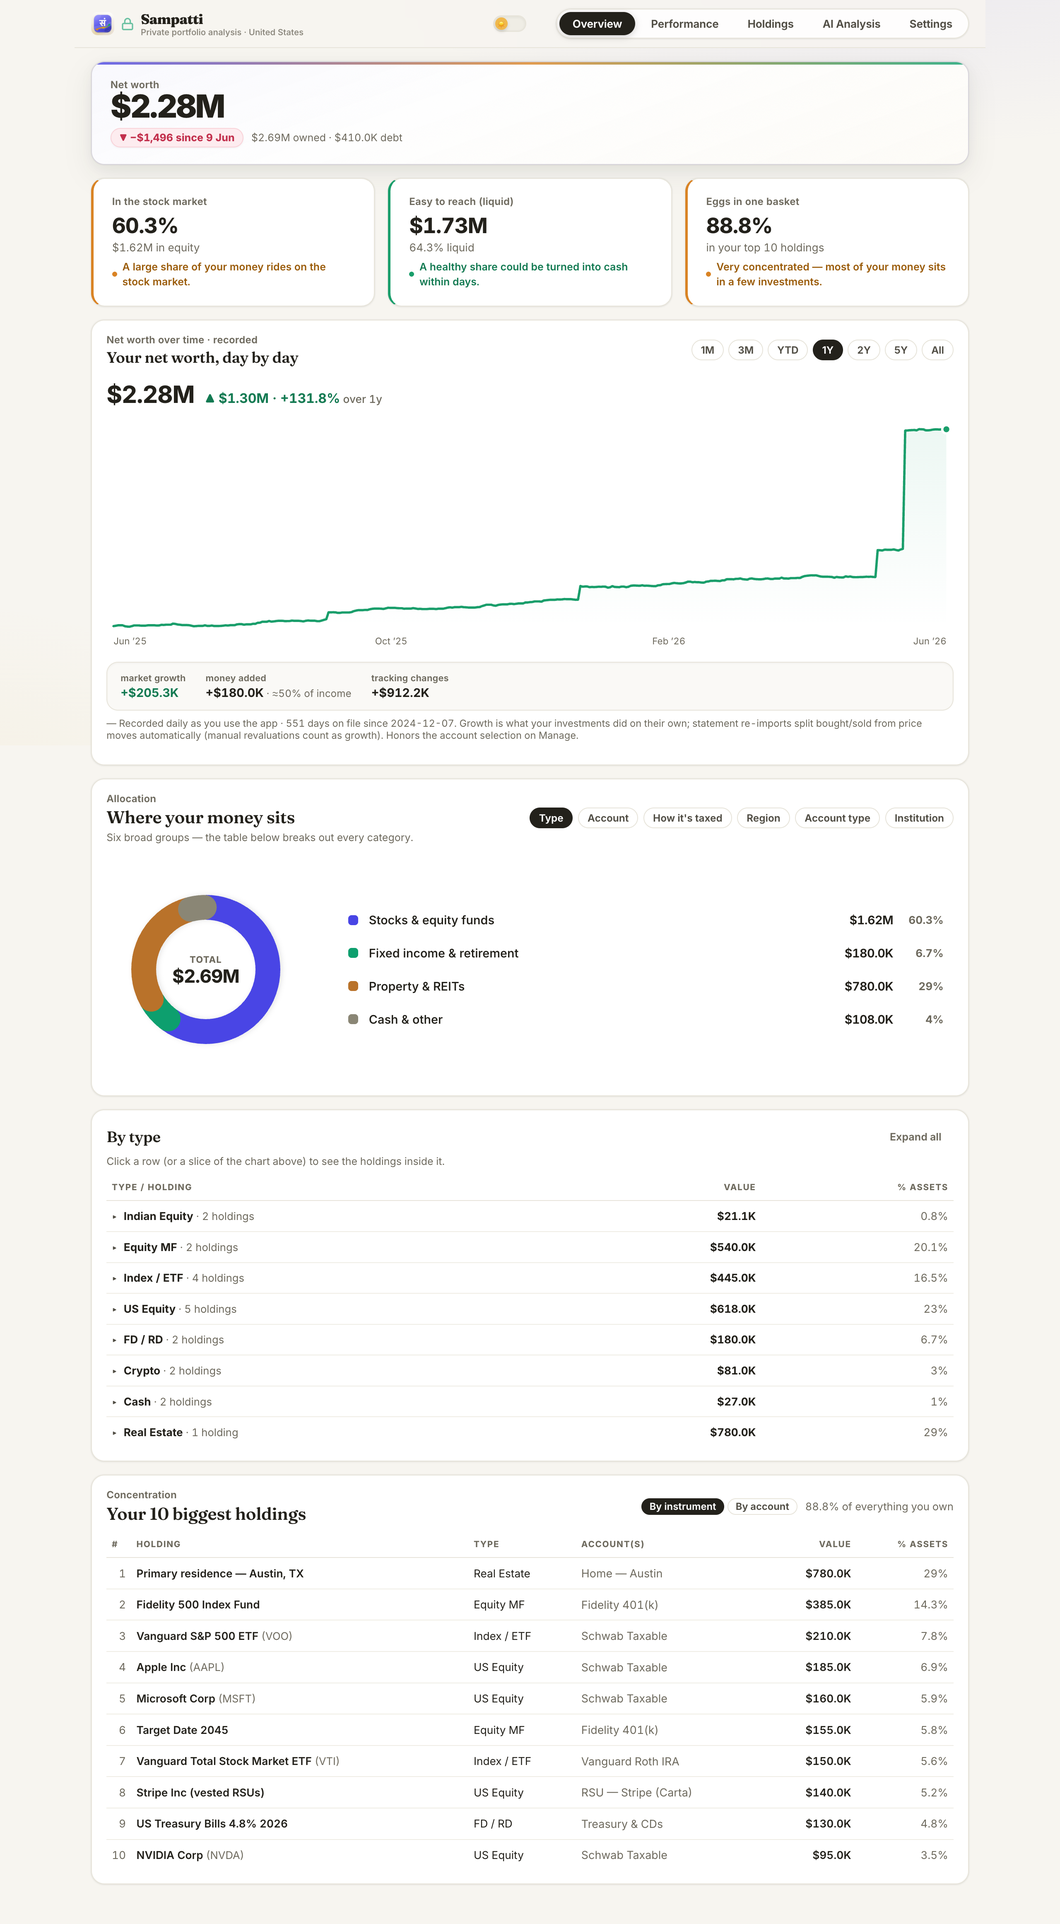
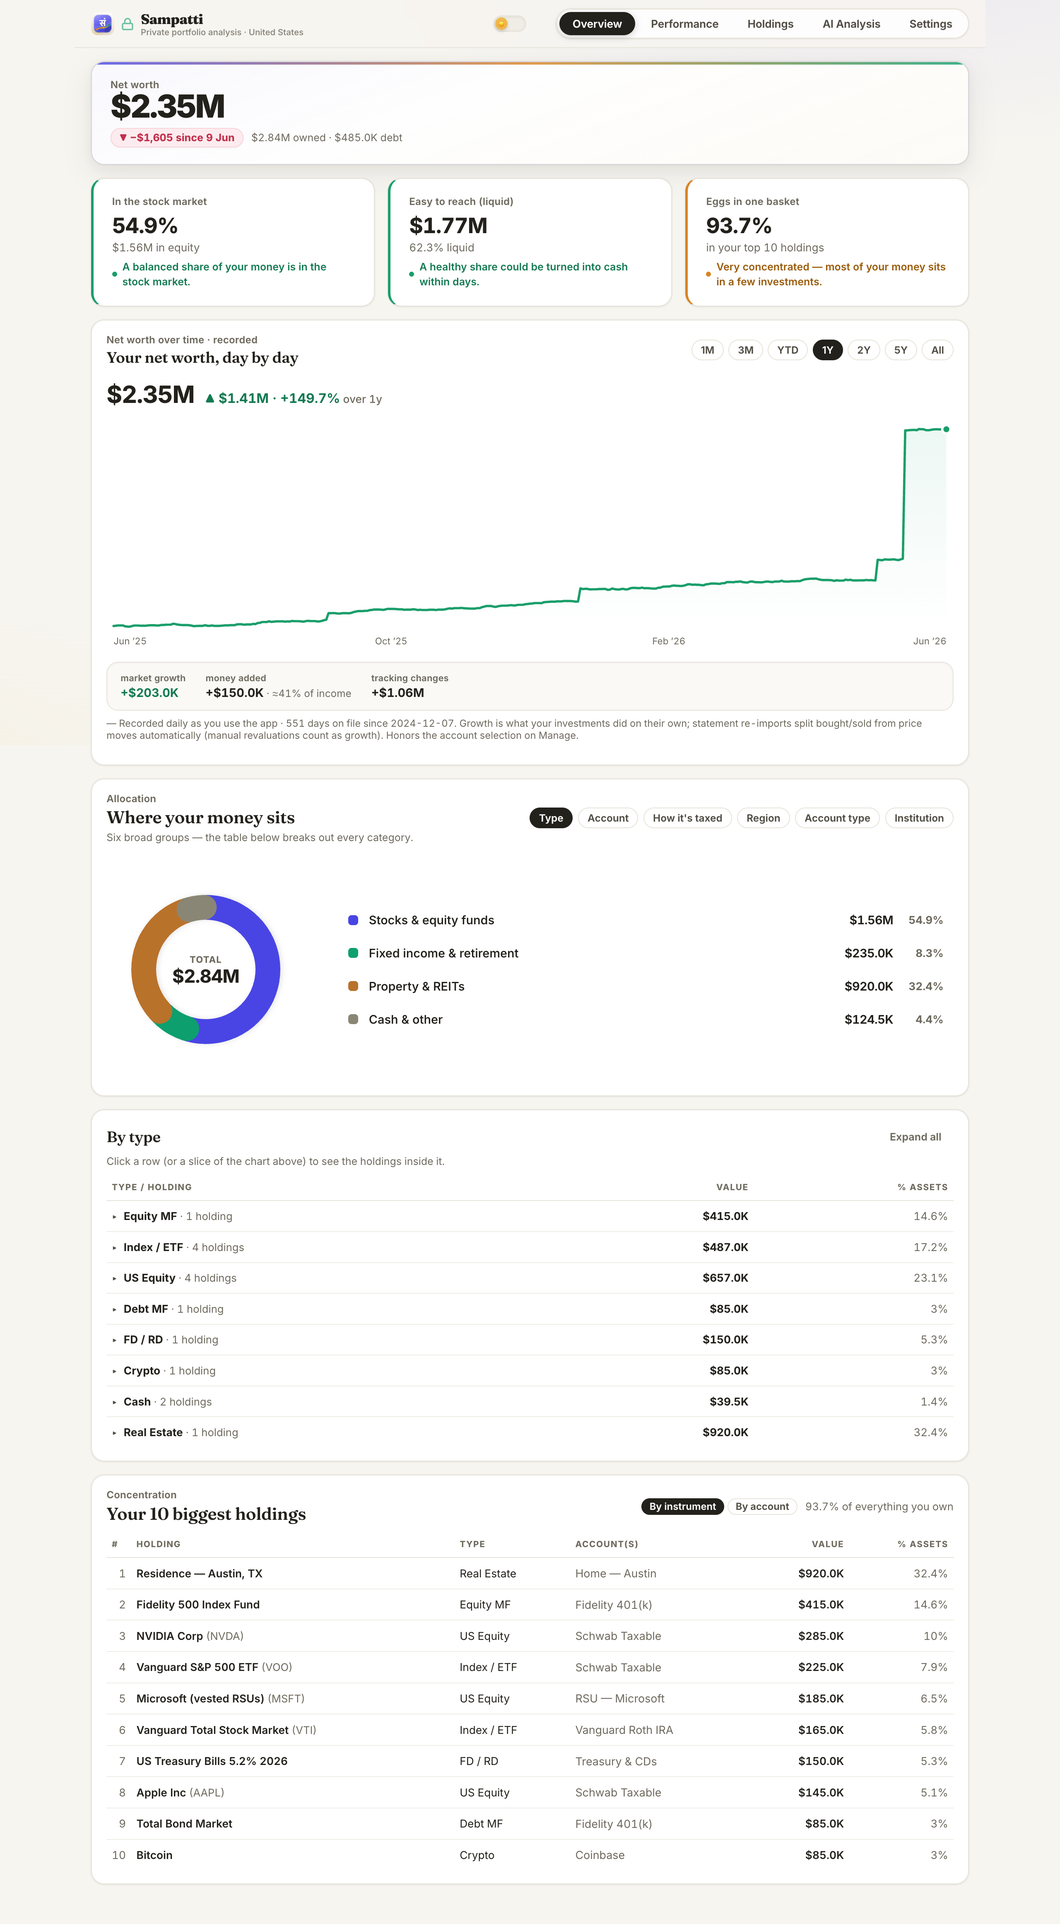
chore: revamp demo portfolios with premium India and US personas

diff --git a/src/demo.ts b/src/demo.ts
@@ -183,90 +183,66 @@ function usSpecs(): AcctSpec[] {
       name: "Schwab Taxable", institution: "Charles Schwab", accountType: "demat",
       taxTreatment: "taxable", region: "US", currency: "USD", asOf: "2026-05-31",
       items: [
-        ["Apple Inc", "us_equity", 185_000, { symbol: "AAPL", units: 720, costBasis: 96_000, buyDate: "2020-03-20" }],
-        ["Microsoft Corp", "us_equity", 160_000, { symbol: "MSFT", units: 320, costBasis: 105_000, buyDate: "2021-05-10" }],
-        ["Vanguard S&P 500 ETF", "index_etf", 210_000, { symbol: "VOO", units: 360, costBasis: 150_000, buyDate: "2019-08-05" }],
-        ["NVIDIA Corp", "us_equity", 95_000, { symbol: "NVDA", units: 540, costBasis: 28_000, buyDate: "2022-10-12" }],
-        // Recent buy → short-term, and a loser — the Performance tab shows red too.
-        ["Tesla Inc", "us_equity", 38_000, { symbol: "TSLA", units: 110, costBasis: 45_000, buyDate: "2026-03-02" }],
-        ["Money market sweep", "cash", 22_000, { symbol: "SWVXX" }],
+        ["NVIDIA Corp", "us_equity", 285_000, { symbol: "NVDA", units: 240, costBasis: 45_000, buyDate: "2021-03-20" }],
+        ["Apple Inc", "us_equity", 145_000, { symbol: "AAPL", units: 710, costBasis: 96_000, buyDate: "2020-05-10" }],
+        ["Vanguard S&P 500 ETF", "index_etf", 225_000, { symbol: "VOO", units: 385, costBasis: 160_000, buyDate: "2019-08-05" }],
+        // A realistic loser/pullback.
+        ["Tesla Inc", "us_equity", 42_000, { symbol: "TSLA", units: 120, costBasis: 55_000, buyDate: "2023-11-12" }],
+        ["Money market sweep", "cash", 35_000, { symbol: "SWVXX" }],
       ],
     },
     {
       name: "Fidelity 401(k)", institution: "Fidelity", accountType: "mutual_fund",
       taxTreatment: "us_pretax", region: "US", currency: "USD", asOf: "2026-05-31",
       items: [
-        ["Fidelity 500 Index Fund", "equity_mf", 385_000, { symbol: "FXAIX", costBasis: 235_000, buyDate: "2018-06-01" }],
-        ["Target Date 2045", "equity_mf", 155_000, { costBasis: 120_000, buyDate: "2020-01-15" }],
+        ["Fidelity 500 Index Fund", "equity_mf", 415_000, { symbol: "FXAIX", costBasis: 245_000, buyDate: "2018-06-01" }],
+        ["Total Bond Market", "debt_mf", 85_000, { symbol: "FXNAX", costBasis: 82_000, buyDate: "2022-01-15" }],
       ],
     },
     {
       name: "Vanguard Roth IRA", institution: "Vanguard", accountType: "mutual_fund",
       taxTreatment: "us_roth", region: "US", currency: "USD", asOf: "2026-05-31",
       items: [
-        ["Vanguard Total Stock Market ETF", "index_etf", 150_000, { symbol: "VTI", units: 480, costBasis: 92_000, buyDate: "2019-04-01" }],
-        ["Vanguard Total International ETF", "index_etf", 45_000, { symbol: "VXUS", units: 640, costBasis: 41_000, buyDate: "2022-07-01" }],
+        ["Vanguard Total Stock Market", "index_etf", 165_000, { symbol: "VTI", units: 520, costBasis: 98_000, buyDate: "2019-04-01" }],
+        ["Vanguard International", "index_etf", 55_000, { symbol: "VXUS", units: 780, costBasis: 48_000, buyDate: "2022-07-01" }],
       ],
     },
     {
-      name: "HSA Bank", institution: "HSA Bank / Schwab", accountType: "bank",
+      name: "HSA Bank", institution: "HSA Bank", accountType: "bank",
       taxTreatment: "us_hsa", region: "US", currency: "USD", asOf: "2026-05-31",
       items: [
-        ["HSA index sweep (S&P 500)", "index_etf", 40_000, { costBasis: 29_000, buyDate: "2021-02-01" }],
-        ["HSA cash", "cash", 5_000],
+        ["HSA Index Fund", "index_etf", 42_000, { costBasis: 31_000, buyDate: "2021-02-01" }],
+        ["HSA cash", "cash", 4_500],
       ],
     },
     {
-      // Joined the record a month ago with NEW money — a `flow` step in the trend.
-      name: "Treasury & CDs", institution: "TreasuryDirect / Marcus", accountType: "bank",
+      name: "Treasury & CDs", institution: "TreasuryDirect", accountType: "bank",
       taxTreatment: "taxable", region: "US", currency: "USD", asOf: dayStr(0),
       items: [
-        ["US Treasury Bills 4.8% 2026", "fd_rd", 130_000, { costBasis: 128_000, buyDate: dayStr(30) }],
-        ["Marcus CD 5.0% 2026", "fd_rd", 50_000, { costBasis: 50_000, buyDate: dayStr(30) }],
+        ["US Treasury Bills 5.2% 2026", "fd_rd", 150_000, { costBasis: 148_500, buyDate: dayStr(30) }],
       ],
     },
     {
       name: "Coinbase", institution: "Coinbase", accountType: "other",
       taxTreatment: "taxable", region: "Other", currency: "USD", asOf: "2026-05-31",
       items: [
-        ["Bitcoin", "crypto", 62_000, { symbol: "BTC", units: 0.95, costBasis: 21_000, buyDate: "2020-11-15" }],
-        ["Ethereum", "crypto", 19_000, { symbol: "ETH", units: 6.2, costBasis: 16_000, buyDate: "2024-02-01" }],
+        ["Bitcoin", "crypto", 85_000, { symbol: "BTC", units: 1.25, costBasis: 32_000, buyDate: "2020-11-15" }],
       ],
     },
     {
-      // Private-company RSUs: a value with NO basis — the ≈ since-import fallback on a
-      // big holding, plus the "your employer is your biggest risk" conversation.
-      name: "RSU — Stripe (Carta)", institution: "Carta", accountType: "other",
+      name: "RSU — Microsoft", institution: "Fidelity", accountType: "other",
       taxTreatment: "taxable", region: "US", currency: "USD", asOf: "2026-03-31",
-      defaultAssetClass: "us_equity", note: "Vested private RSUs at last 409A — no cost basis reported",
-      items: [["Stripe Inc (vested RSUs)", "us_equity", 140_000]],
-    },
-    {
-      // Pre-excluded: the Manage-tab include/exclude feature, US flavor.
-      name: "Old Employer 401(k) — Empower", institution: "Empower", accountType: "mutual_fund",
-      taxTreatment: "us_pretax", region: "US", currency: "USD", asOf: "2026-04-30",
-      excluded: true, note: "Pending rollover — tracked, excluded from net worth",
-      items: [["Target Date 2045", "equity_mf", 95_000, { costBasis: 70_000, buyDate: "2016-09-01" }]],
-    },
-    {
-      // The NRI case: an Indian demat alongside the US accounts — mixed currencies.
-      name: "Zerodha (NRI demat)", institution: "Zerodha", accountType: "demat",
-      taxTreatment: "taxable", region: "India", currency: "INR", asOf: "2026-05-31",
-      items: [
-        ["Reliance Industries", "indian_equity", 1_400_000, { symbol: "RELIANCE", units: 1110, costBasis: 900_000, buyDate: "2019-07-12" }],
-        ["ITC", "indian_equity", 600_000, { symbol: "ITC", units: 2150, costBasis: 450_000, buyDate: "2020-12-01" }],
-      ],
+      items: [["Microsoft (vested RSUs)", "us_equity", 185_000, { symbol: "MSFT" }]],
     },
     {
       name: "Home — Austin", institution: "—", accountType: "real_estate",
       taxTreatment: "taxable", region: "US", currency: "USD", asOf: dayStr(DEMO_PLOT_DAYS_AGO),
-      defaultAssetClass: "real_estate", note: "Zillow-style indicative value — update yearly",
-      items: [["Primary residence — Austin, TX", "real_estate", 780_000]],
+      items: [["Residence — Austin, TX", "real_estate", 920_000]],
     },
     {
       name: "Mortgage", institution: "Rocket Mortgage", accountType: "liability",
       taxTreatment: "na", region: "US", currency: "USD", asOf: "2026-05-31",
-      items: [["30-yr fixed (outstanding)", "other", 410_000]],
+      items: [["30-yr fixed (outstanding)", "other", 485_000]],
     },
   ];
 }
@@ -288,133 +264,93 @@ export function demoPortfolio(country: "India" | "US" = "India"): Portfolio {
       name: "Zerodha Demat", institution: "Zerodha", accountType: "demat",
       taxTreatment: "taxable", region: "India", currency: "INR", asOf: "2026-05-31",
       items: [
-        ["Reliance Industries", "indian_equity", 3_500_000, { symbol: "RELIANCE", units: 2770, costBasis: 2_100_000, buyDate: "2019-07-12" }],
-        ["HDFC Bank", "indian_equity", 2_800_000, { symbol: "HDFCBANK", units: 3790, costBasis: 1_700_000, buyDate: "2020-03-20" }],
-        ["Infosys", "indian_equity", 2_200_000, { symbol: "INFY", units: 1850, costBasis: 900_000, buyDate: "2018-11-05" }],
-        ["TCS", "indian_equity", 1_800_000, { symbol: "TCS", units: 835, costBasis: 1_200_000, buyDate: "2021-01-18" }],
-        ["ICICI Bank", "indian_equity", 1_600_000, { symbol: "ICICIBANK", units: 1280, costBasis: 750_000, buyDate: "2020-09-10" }],
-        ["Bajaj Finance", "indian_equity", 1_500_000, { symbol: "BAJFINANCE", units: 1720, costBasis: 1_100_000, buyDate: "2022-06-01" }],
-        ["Embassy Office Parks REIT", "reit_invit", 1_400_000, { symbol: "EMBASSY", units: 3290, costBasis: 1_100_000, buyDate: "2021-10-05" }],
-        ["Larsen & Toubro", "indian_equity", 1_200_000, { symbol: "LT", units: 310, costBasis: 650_000, buyDate: "2021-08-22" }],
-        // A realistic loser: bought near the top.
-        ["Asian Paints", "indian_equity", 1_000_000, { symbol: "ASIANPAINT", units: 376, costBasis: 1_150_000, buyDate: "2023-01-09" }],
-        ["Titan Company", "indian_equity", 900_000, { symbol: "TITAN", units: 215, costBasis: 400_000, buyDate: "2020-05-15" }],
-        // Recent buy → STCG territory, small loss so the Performance tab shows red too.
-        ["Trent", "indian_equity", 600_000, { symbol: "TRENT", units: 220, costBasis: 660_000, buyDate: "2025-11-20" }],
+        ["Trent Ltd", "indian_equity", 4_500_000, { symbol: "TRENT", units: 820, costBasis: 1_200_000, buyDate: "2022-03-15" }],
+        ["Kaynes Technology", "indian_equity", 3_200_000, { symbol: "KAYNES", units: 740, costBasis: 950_000, buyDate: "2023-01-10" }],
+        ["Varun Beverages", "indian_equity", 2_800_000, { symbol: "VBL", units: 1850, costBasis: 800_000, buyDate: "2021-11-05" }],
+        ["HDFC Bank", "indian_equity", 2_200_000, { symbol: "HDFCBANK", units: 1380, costBasis: 1_400_000, buyDate: "2020-03-20" }],
+        ["Reliance Industries", "indian_equity", 1_800_000, { symbol: "RELIANCE", units: 635, costBasis: 1_200_000, buyDate: "2021-01-18" }],
+        ["Embassy Office Parks REIT", "reit_invit", 1_600_000, { symbol: "EMBASSY", units: 3720, costBasis: 1_200_000, buyDate: "2021-10-05" }],
+        ["Jio Financial Services", "indian_equity", 1_400_000, { symbol: "JIOFIN", units: 3820, costBasis: 650_000, buyDate: "2023-08-22" }],
+        // A realistic loser: high-quality name bought at a peak.
+        ["Asian Paints", "indian_equity", 1_100_000, { symbol: "ASIANPAINT", units: 376, costBasis: 1_350_000, buyDate: "2023-01-09" }],
+        ["Zomato Ltd", "indian_equity", 950_000, { symbol: "ZOMATO", units: 5200, costBasis: 400_000, buyDate: "2022-05-15" }],
       ],
     },
     {
       name: "Equity Mutual Funds", institution: "CAMS / KFintech", accountType: "mutual_fund",
       taxTreatment: "taxable", region: "India", currency: "INR", asOf: "2026-05-31",
-      // symbol = AMFI scheme code → mfapi.in NAV history powers the trend chart.
       items: [
-        ["Parag Parikh Flexi Cap Fund", "equity_mf", 5_500_000, { symbol: "122639", costBasis: 3_000_000, buyDate: "2019-04-01" }],
-        ["Mirae Asset Large Cap Fund", "equity_mf", 4_500_000, { symbol: "118825", costBasis: 2_400_000, buyDate: "2018-02-10" }],
-        ["Axis Midcap Fund", "equity_mf", 3_000_000, { symbol: "120505", costBasis: 1_900_000, buyDate: "2021-03-15" }],
-        // Re-entered recently → short-term; goes long-term in a month.
-        ["SBI Small Cap Fund", "equity_mf", 2_500_000, { symbol: "125497", costBasis: 2_350_000, buyDate: "2025-07-01" }],
-        ["HDFC Index Fund — Nifty 50", "index_etf", 3_500_000, { symbol: "119063", costBasis: 2_200_000, buyDate: "2020-01-08" }],
-        ["UTI Nifty Next 50 Index Fund", "index_etf", 1_500_000, { symbol: "143341", costBasis: 1_050_000, buyDate: "2021-11-11" }],
-        ["Axis Long Term Equity (ELSS)", "elss", 1_800_000, { symbol: "120503", costBasis: 1_100_000, buyDate: "2020-02-20" }],
+        ["Quant Small Cap Fund", "equity_mf", 6_500_000, { symbol: "120847", costBasis: 2_800_000, buyDate: "2020-04-01" }],
+        ["Parag Parikh Flexi Cap Fund", "equity_mf", 5_800_000, { symbol: "122639", costBasis: 3_200_000, buyDate: "2019-02-10" }],
+        ["ICICI Pru NASDAQ 100 Index", "index_etf", 3_500_000, { symbol: "148810", costBasis: 1_900_000, buyDate: "2021-03-15" }],
+        ["HDFC Index Fund — Nifty 50", "index_etf", 4_200_000, { symbol: "119063", costBasis: 2_600_000, buyDate: "2020-01-08" }],
+        ["Axis Long Term Equity (ELSS)", "elss", 2_400_000, { symbol: "120503", costBasis: 1_400_000, buyDate: "2020-02-20" }],
       ],
     },
     {
       name: "Debt Funds", institution: "ICICI / HDFC MF", accountType: "mutual_fund",
       taxTreatment: "taxable", region: "India", currency: "INR", asOf: "2026-05-31",
       items: [
-        ["HDFC Corporate Bond Fund", "debt_mf", 4_000_000, { symbol: "118987", costBasis: 3_500_000, buyDate: "2023-06-01" }],
-        ["ICICI Prudential Liquid Fund", "debt_mf", 2_500_000, { symbol: "120197", costBasis: 2_350_000, buyDate: "2024-01-10" }],
+        ["HDFC Corporate Bond Fund", "debt_mf", 4_500_000, { symbol: "118987", costBasis: 3_800_000, buyDate: "2023-06-01" }],
+        ["ICICI Prudential Liquid Fund", "debt_mf", 3_000_000, { symbol: "120197", costBasis: 2_950_000, buyDate: "2024-01-10" }],
       ],
     },
     {
-      // PMS statements show value but rarely contributed capital — so NO cost basis here:
-      // this is what the ≈ since-import fallback looks like on a big holding.
       name: "Marcellus PMS", institution: "Marcellus", accountType: "pms_aif",
       taxTreatment: "taxable", region: "India", currency: "INR", asOf: "2026-03-31",
-      defaultAssetClass: "indian_equity", note: "Quarterly statement; cost basis not reported",
-      items: [["Consistent Compounders Portfolio", "indian_equity", 8_500_000, { buyDate: "2021-04-01" }]],
+      defaultAssetClass: "indian_equity", note: "Consistent Compounders Portfolio — quarterly reporting",
+      items: [["Marcellus CCP (Discretionary)", "indian_equity", 12_500_000, { buyDate: "2021-04-01" }]],
     },
     {
-      name: "Edelweiss AIF", institution: "Edelweiss", accountType: "pms_aif",
-      taxTreatment: "taxable", region: "India", currency: "INR", asOf: "2026-03-31",
-      defaultAssetClass: "pms",
-      items: [["Edelweiss Alternative Yield Fund (Cat-II AIF)", "pms", 5_000_000, { costBasis: 4_500_000, buyDate: "2023-02-15" }]],
-    },
-    {
-      name: "Private Markets", institution: "Avendus", accountType: "pms_aif",
+      name: "Private Markets", institution: "Avendus / Kedaara", accountType: "pms_aif",
       taxTreatment: "taxable", region: "India", currency: "INR", asOf: "2026-03-31",
       items: [
-        ["Avendus Future Leaders Fund II (PE)", "private_equity", 3_500_000, { costBasis: 2_500_000, buyDate: "2022-01-15" }],
-        ["Vivriti Samarth Bond Fund (private credit)", "private_credit", 2_500_000, { costBasis: 2_400_000, buyDate: "2024-03-01" }],
+        ["Kedaara Capital IV (PE)", "private_equity", 4_500_000, { costBasis: 3_000_000, buyDate: "2022-01-15" }],
+        ["Avendus Structured Credit", "private_credit", 3_500_000, { costBasis: 3_200_000, buyDate: "2024-03-01" }],
       ],
     },
     {
       name: "NPS Tier-1", institution: "HDFC Pension", accountType: "nps",
       taxTreatment: "nps", region: "India", currency: "INR", asOf: "2026-04-30",
-      items: [["NPS — 75% equity / 25% debt", "nps", 2_200_000]],
+      items: [["NPS — Aggressive LC-75", "nps", 2_800_000]],
     },
     {
       name: "Provident Fund", institution: "EPFO / SBI", accountType: "epf_ppf",
       taxTreatment: "eee_exempt", region: "India", currency: "INR", asOf: "2026-03-31",
       items: [
-        ["EPF + VPF balance", "epf_ppf", 4_500_000],
-        ["PPF account", "epf_ppf", 2_800_000],
+        ["EPF + VPF balance", "epf_ppf", 5_200_000],
+        ["PPF account", "epf_ppf", 3_400_000],
       ],
     },
     {
       name: "Bank & Deposits", institution: "HDFC Bank", accountType: "bank",
       taxTreatment: "taxable", region: "India", currency: "INR", asOf: "2026-05-31",
       items: [
-        ["HDFC Fixed Deposit", "fd_rd", 4_000_000],
-        ["Savings account", "cash", 1_500_000],
+        ["HDFC Fixed Deposit", "fd_rd", 4_500_000],
+        ["Savings account", "cash", 1_800_000],
       ],
     },
     {
       name: "Gold", institution: "RBI / Nippon", accountType: "demat",
       taxTreatment: "taxable", region: "India", currency: "INR", asOf: "2026-05-31",
       items: [
-        // SGB held by weight: units = grams (250g @ ~₹4,800 issue price) → live ₹/g revalues it.
-        ["Sovereign Gold Bonds (2021-22)", "gold_sgb", 2_000_000, { units: 250, costBasis: 1_200_000, buyDate: "2021-08-01" }],
-        ["Nippon Gold ETF", "gold_other", 1_200_000, { costBasis: 700_000, buyDate: "2022-09-01" }],
+        ["Sovereign Gold Bonds (2021-22)", "gold_sgb", 2_500_000, { units: 320, costBasis: 1_500_000, buyDate: "2021-08-01" }],
+        ["Nippon Gold ETF", "gold_other", 1_500_000, { costBasis: 900_000, buyDate: "2022-09-01" }],
       ],
     },
     {
-      name: "LIC Endowment Policy", institution: "LIC", accountType: "other",
-      taxTreatment: "taxable", region: "India", currency: "INR", asOf: "2026-03-31",
-      defaultAssetClass: "insurance",
-      items: [["LIC Jeevan Anand (fund value)", "insurance", 1_800_000]],
-    },
-    {
-      name: "Morgan Stanley (RSU/ESPP)", institution: "Morgan Stanley", accountType: "foreign_broker",
+      name: "Morgan Stanley (RSU)", institution: "Morgan Stanley", accountType: "foreign_broker",
       taxTreatment: "taxable", region: "US", currency: "USD", asOf: "2026-05-31",
       items: [
-        ["Microsoft Corp (RSU)", "us_equity", 60_000, { symbol: "MSFT", units: 149, costBasis: 38_000, buyDate: "2022-02-15" }],
-        ["Microsoft Corp (ESPP)", "us_equity", 25_000, { symbol: "MSFT", units: 62, costBasis: 26_500, buyDate: "2025-09-01" }],
+        ["NVIDIA Corp (RSU)", "us_equity", 125_000, { symbol: "NVDA", units: 104, costBasis: 45_000, buyDate: "2022-02-15" }],
       ],
     },
     {
       name: "Schwab Brokerage", institution: "Charles Schwab", accountType: "foreign_broker",
       taxTreatment: "taxable", region: "US", currency: "USD", asOf: "2026-05-31",
       items: [
-        ["GOLDMAN SACHS FIN VAR 28 DUE 06/15/28 (autocallable)", "structured_notes", 40_000, { costBasis: 40_000, buyDate: "2024-06-15" }],
-        ["US Treasury Notes 4.25% 2027", "fd_rd", 25_000, { costBasis: 24_500, buyDate: "2024-08-01" }],
-        ["Schwab Value Advantage Money Fund", "cash", 8_000, { symbol: "SWVXX" }],
-      ],
-    },
-    {
-      name: "Crypto Wallet", institution: "Self-custody", accountType: "other",
-      taxTreatment: "taxable", region: "Other", currency: "USD", asOf: "2026-05-31",
-      items: [["Bitcoin", "crypto", 20_000, { symbol: "BTC", units: 0.32, costBasis: 9_000, buyDate: "2020-12-01" }]],
-    },
-    {
-      // Pre-excluded: shows the Manage-tab include/exclude feature (kept on file, out of
-      // net worth / allocations / AI brief until re-included).
-      name: "HUF Demat", institution: "Zerodha (HUF)", accountType: "demat",
-      taxTreatment: "taxable", region: "India", currency: "INR", asOf: "2026-05-31",
-      excluded: true, note: "Family HUF folio — tracked here, excluded from personal net worth",
-      items: [
-        ["Coal India", "indian_equity", 600_000, { symbol: "COALINDIA", units: 1290, costBasis: 400_000, buyDate: "2021-06-10" }],
-        ["ITC", "indian_equity", 600_000, { symbol: "ITC", units: 2150, costBasis: 450_000, buyDate: "2020-12-01" }],
+        ["Berkshire Hathaway B", "us_equity", 45_000, { symbol: "BRK.B", units: 110, costBasis: 32_000, buyDate: "2021-05-10" }],
+        ["Vanguard S&P 500 ETF", "index_etf", 30_000, { symbol: "VOO", units: 62, costBasis: 22_500, buyDate: "2020-08-01" }],
       ],
     },
     {
@@ -422,31 +358,14 @@ export function demoPortfolio(country: "India" | "US" = "India"): Portfolio {
       taxTreatment: "taxable", region: "India", currency: "INR", asOf: "2026-01-01",
       defaultAssetClass: "real_estate", note: "Indicative market values — update yearly",
       items: [
-        ["Primary residence — Mumbai", "real_estate", 27_500_000],
-        ["Rented flat — Pune", "real_estate", 11_000_000],
+        ["Primary residence — Mumbai", "real_estate", 35_000_000],
+        ["Rented flat — Pune", "real_estate", 12_500_000],
       ],
     },
     {
-      // Added mid-month (15 days ago) as "started tracking an asset I already owned" —
-      // shows as a step in the recorded trend and a `tracking` line in the growth split.
-      name: "Plot — Alibaug", institution: "—", accountType: "real_estate",
-      taxTreatment: "taxable", region: "India", currency: "INR", asOf: dayStr(DEMO_PLOT_DAYS_AGO),
-      defaultAssetClass: "real_estate", note: "Added to tracking recently — indicative value",
-      items: [["Residential plot — Alibaug", "real_estate", 5_800_000]],
-    },
-    {
-      // Opened 20 days ago with NEW money (a `flow` event) — same fund family as the main
-      // folio, a recent STCG-territory buy with a real cost basis.
-      name: "Groww Mutual Funds", institution: "Groww", accountType: "mutual_fund",
-      taxTreatment: "taxable", region: "India", currency: "INR", asOf: dayStr(0),
-      items: [
-        ["Parag Parikh Flexi Cap (Direct)", "equity_mf", 625_000, { symbol: "122639", costBasis: 600_000, buyDate: dayStr(DEMO_MF_DAYS_AGO) }],
-      ],
-    },
-    {
-      name: "Home Loan", institution: "HDFC Ltd", accountType: "liability",
+      name: "Home Loan", institution: "HDFC Bank", accountType: "liability",
       taxTreatment: "na", region: "India", currency: "INR", asOf: "2026-05-31",
-      items: [["Mumbai home loan (outstanding)", "other", 6_500_000]],
+      items: [["Mumbai home loan (outstanding)", "other", 8_500_000]],
     },
   ]);
 
